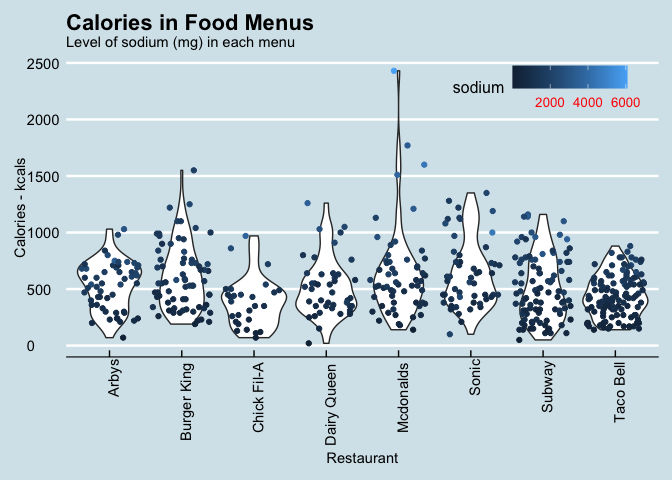
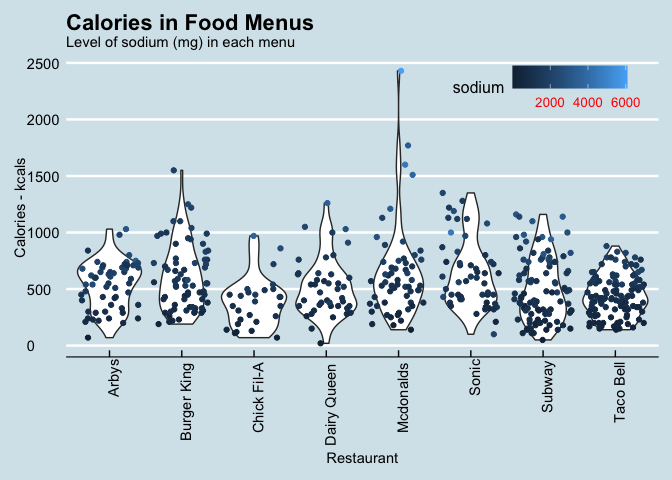
Updated

diff --git a/Consumer goods/restaurant.md b/Consumer goods/restaurant.md
@@ -1,0 +1,54 @@
+Restaurant
+================
+Selim Ach
+10/5/2020
+
+Very often data are presented in tabular format and the challenge is to
+be able to process information in order to provide relevant insights.
+
+It is also sometimes useful to display all the data sample, for a first
+visual inspection (e.g. identify potential outliers) and take a decision
+on how to narrow the sample to the variables of interest.
+
+Hereadfter is an example of how data can be presented to have a first
+glance at the information and another chart with an additional layer of
+information.
+
+-----
+
+    ## # A tibble: 15 x 18
+    ##       X1 restaurant item  calories cal_fat total_fat sat_fat trans_fat
+    ##    <dbl> <chr>      <chr>    <dbl>   <dbl>     <dbl>   <dbl>     <dbl>
+    ##  1     1 Mcdonalds  Arti…      380      60         7       2       0  
+    ##  2     2 Mcdonalds  Sing…      840     410        45      17       1.5
+    ##  3     3 Mcdonalds  Doub…     1130     600        67      27       3  
+    ##  4     4 Mcdonalds  Gril…      750     280        31      10       0.5
+    ##  5     5 Mcdonalds  Cris…      920     410        45      12       0.5
+    ##  6     6 Mcdonalds  Big …      540     250        28      10       1  
+    ##  7     7 Mcdonalds  Chee…      300     100        12       5       0.5
+    ##  8     8 Mcdonalds  Clas…      510     210        24       4       0  
+    ##  9     9 Mcdonalds  Doub…      430     190        21      11       1  
+    ## 10    10 Mcdonalds  Doub…      770     400        45      21       2.5
+    ## 11    11 Mcdonalds  File…      380     170        18       4       0  
+    ## 12    12 Mcdonalds  Garl…      620     300        34      13       1.5
+    ## 13    13 Mcdonalds  Gril…      530     180        20       7       0  
+    ## 14    14 Mcdonalds  Cris…      700     300        34       9       0  
+    ## 15    15 Mcdonalds  Hamb…      250      70         8       3       0  
+    ## # … with 10 more variables: cholesterol <dbl>, sodium <dbl>, total_carb <dbl>,
+    ## #   fiber <dbl>, sugar <dbl>, protein <dbl>, vit_a <dbl>, vit_c <dbl>,
+    ## #   calcium <dbl>, salad <chr>
+
+![](restaurant_files/figure-gfm/unnamed-chunk-1-1.png)<!-- -->
+
+This chart is an overview of the fast food restaurants and associated
+menus with an indication of their level of calories. The possobilities
+to plot each menu (a dot by menu) is an interesting fearture to grasp an
+ideal of the number of menus offered by each restaurant.
+
+![](restaurant_files/figure-gfm/unnamed-chunk-2-1.png)<!-- -->
+
+In addition to the level of calories per menu, this chart allows also to
+display an extra dimension, here it is the level of sodium. In this way,
+it is possible to offer a complete overview, within a single graph of
+the range of calories by menu (and by restaurant) as well as its
+associated level of sodium.
